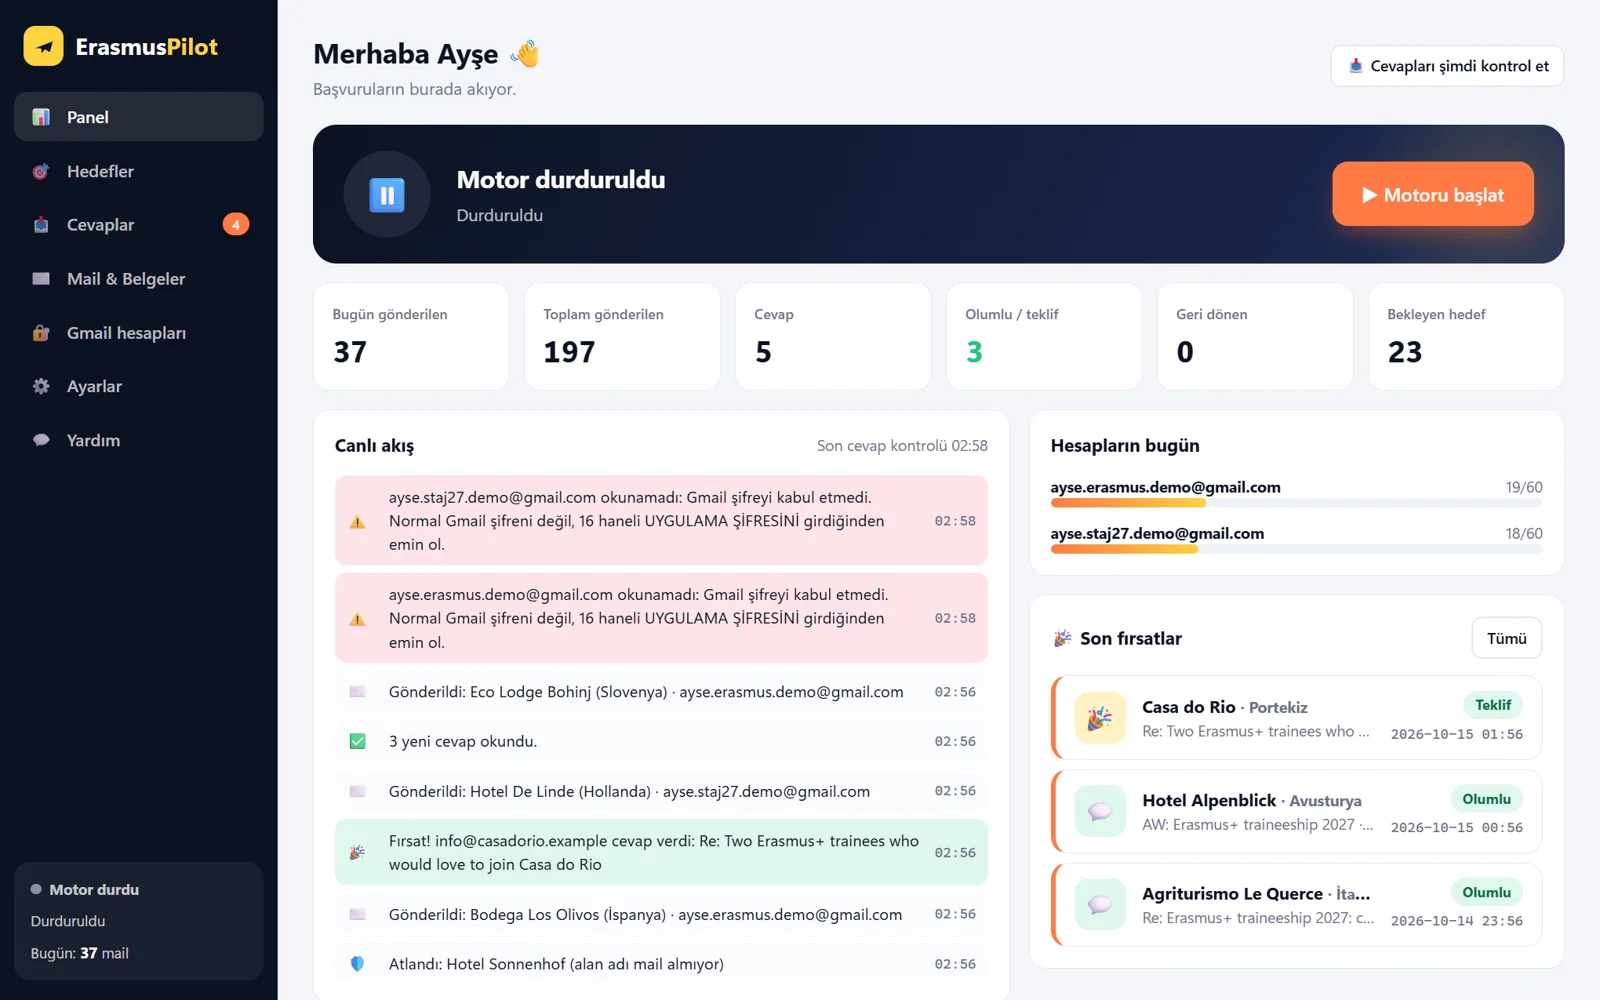
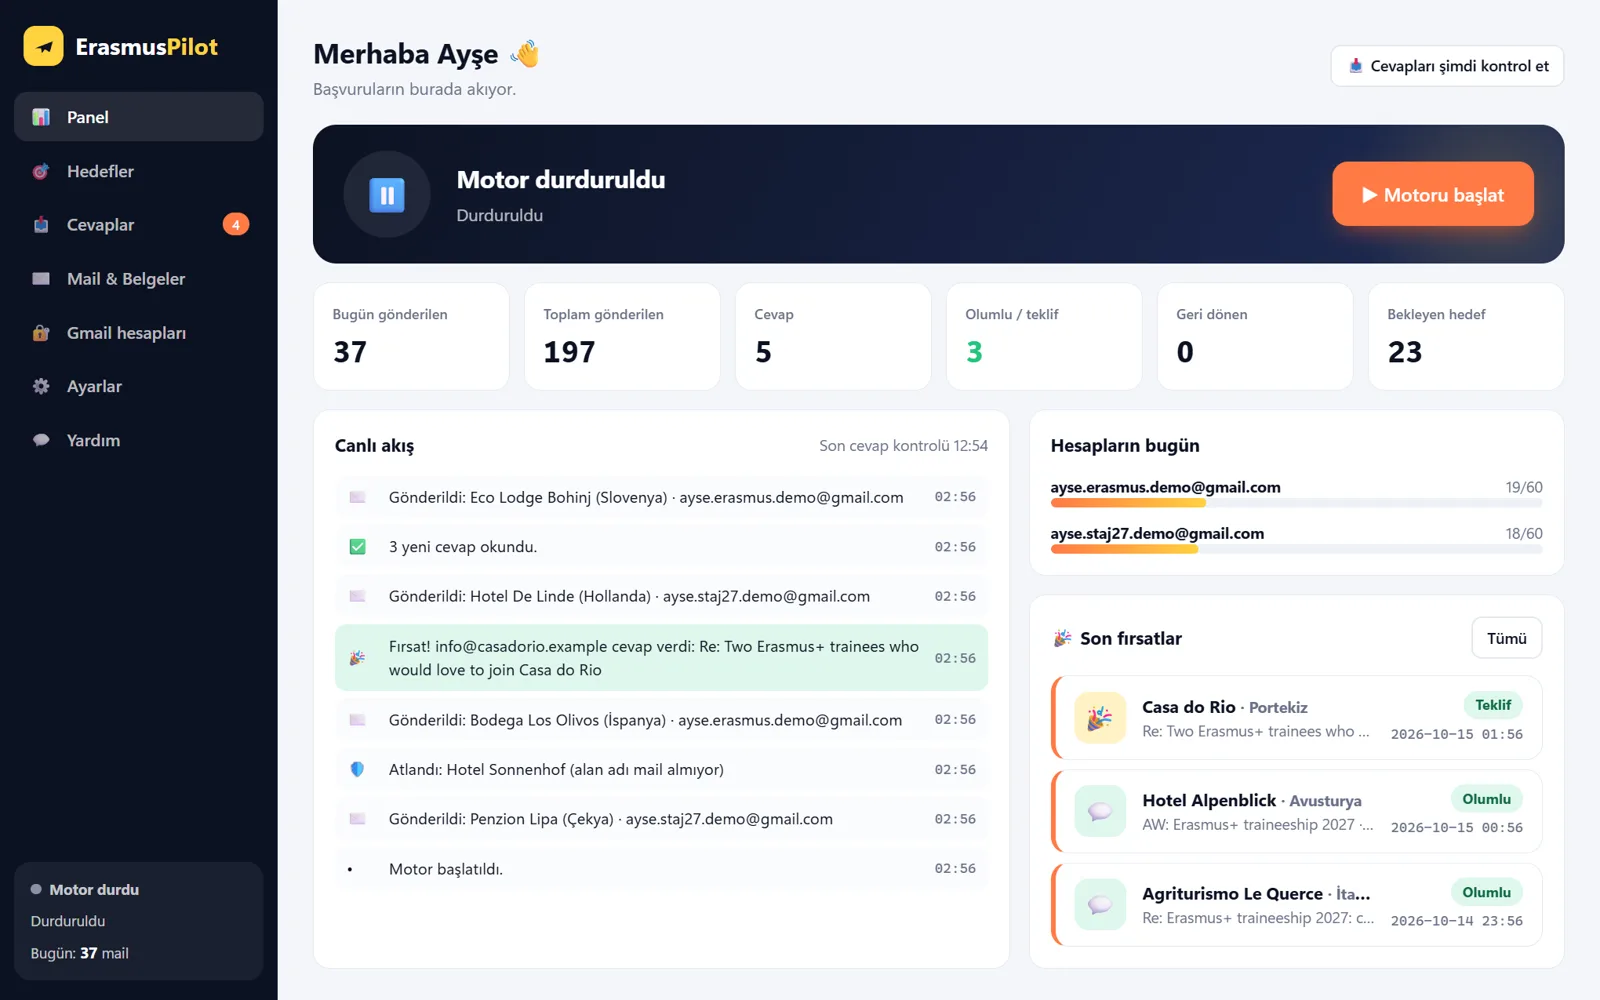
Ekran goruntusu oran duzeltmesi + temiz panel goruntusu

Changed region(s): [[0.1875, 0.434, 0.625, 0.93], [0.2188, 0.961, 0.4375, 0.992]]

diff --git a/css/site.css b/css/site.css
@@ -219,7 +219,7 @@ img { display: block; max-width: 100%; }
 .shot-bar i { width: 11px; height: 11px; border-radius: 50%; background: #ff5f57; }
 .shot-bar i:nth-child(2) { background: #febc2e; } .shot-bar i:nth-child(3) { background: #28c840; }
 .shot-bar span { margin-left: 8px; }
-.shot-frame img { width: 100%; display: block; transition: opacity .25s; }
+.shot-frame img { width: 100%; height: auto; display: block; transition: opacity .25s; }
 .shot-frame img.fade { opacity: 0; }
 .shot-cap { text-align: center; color: var(--muted); max-width: 640px; margin: 18px auto 0; }
 
